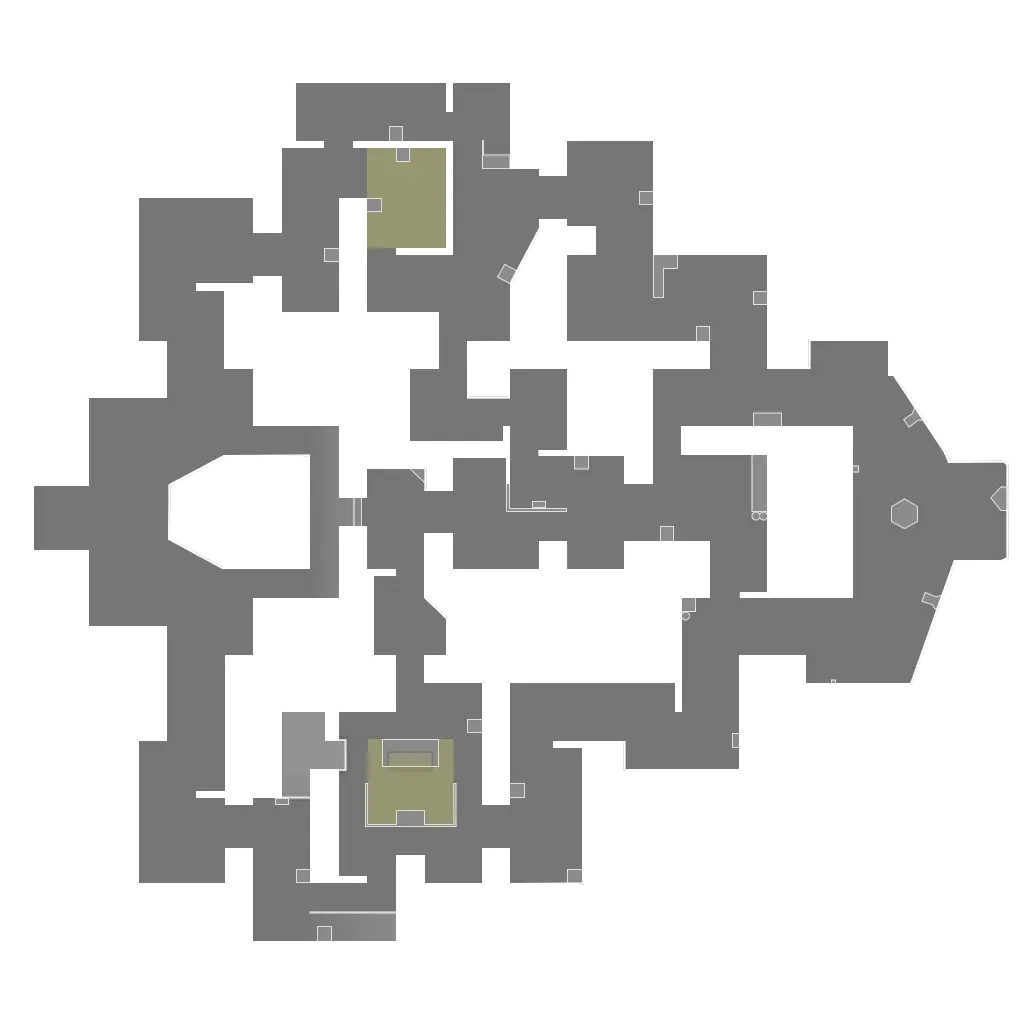
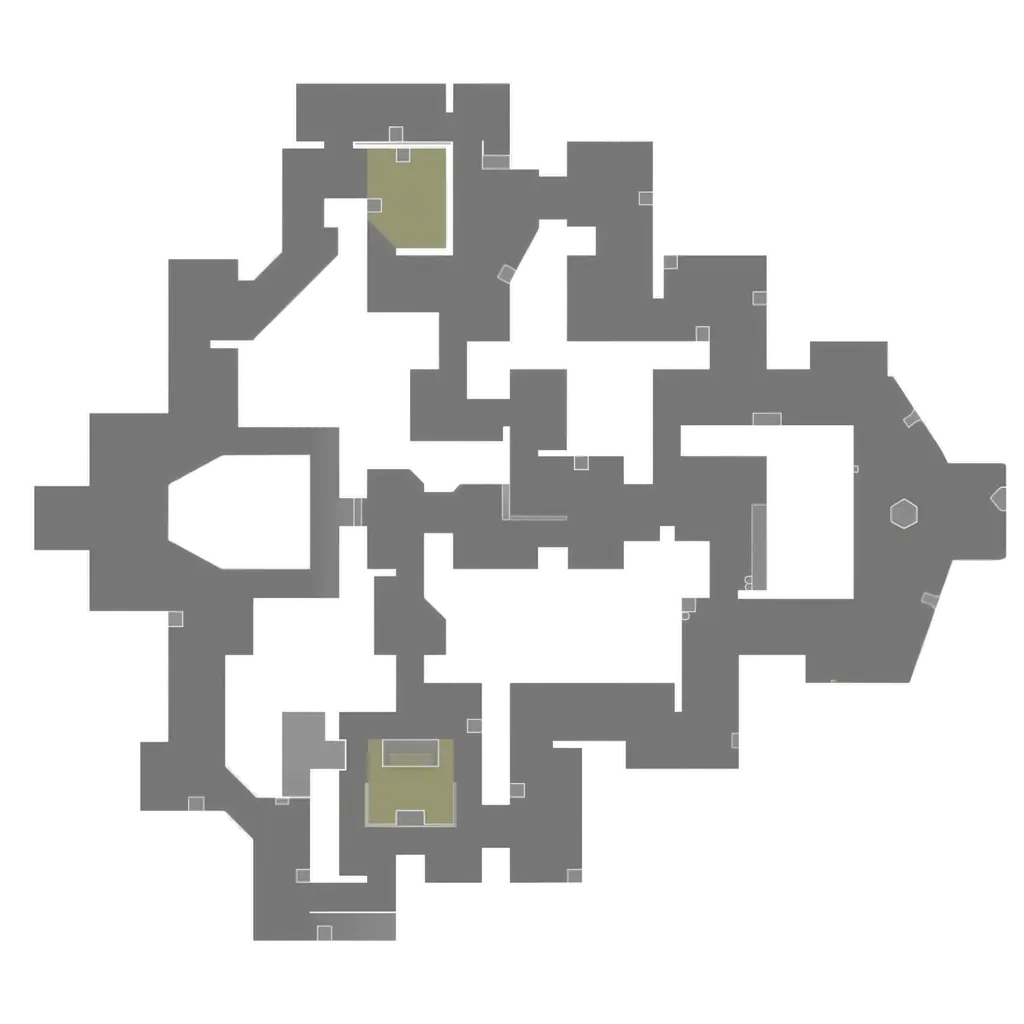
New Corrode map image; add English name Summit for 天枢云阙
The new Corrode minimap is rotated 90° counterclockwise and scaled /
shifted into the old image's frame (fitted by maximizing overlap with
the old map's outline), so existing lineup positions stay in place.

Claude-Session: https://claude.ai/code/session_0167S33gEgJz6z6yX9BzxGFi

diff --git a/src/data/maps.ts b/src/data/maps.ts
@@ -37,7 +37,7 @@ const MAP_LIST: Omit<MapDef, 'image' | 'preview'>[] = [
   { id: 'lotus', name: '莲华古城', en: 'Lotus' },
   { id: 'sunset', name: '日落之城', en: 'Sunset' },
   { id: 'abyss', name: '幽邃地窟', en: 'Abyss' },
-  { id: 'tianshu', name: '天枢云阙' },
+  { id: 'tianshu', name: '天枢云阙', en: 'Summit' },
   { id: 'bind', name: '源工重镇', en: 'Bind' },
   { id: 'breeze', name: '微风岛屿', en: 'Breeze' },
   { id: 'fracture', name: '裂变峡谷', en: 'Fracture' },
